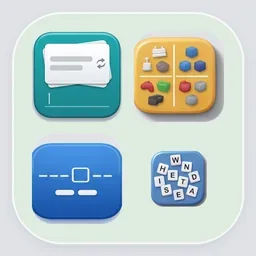
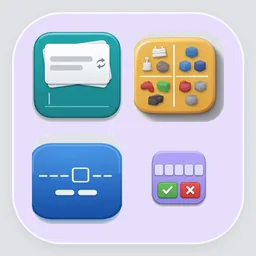
[Claude·MAC] Плитки-папки развилок «Apple Glass»: иконка у всех 95 игр каталога (задача 4c3ba7c9, п. 3)
Замер до: 9 игр каталога без иконки — 8 видимых карточек-развилок (counting, search, mnemonics,
languages, chess, sorting, puzzles, spatial) и скрытый «Фрактал» глубже. После: 0 из 95.

· Плитка-папка = три иконки первых игр развилки + четвёртая маленькая (замысел Дениса 13.09).
  Собраны КОДОМ из иконок самих игр, без генерации (сборщик — локально,
  memory-hearing-chat/icons/compose-group-tiles.py): «Языки» — игры «Слов» и «Слуха» поочерёдно
  (папка в папке на 40 px нечитаема), «Шахматы» — три игры, 4-й слот пуст. «Слух» и «Слова»
  пересобраны тем же правилом — один стиль у всех десяти; оттенок — от градиента карточки.
· 'sudoku-fractal-deep' — иконка «Фрактала» (то же поле глубже).

Проба hub_game_icons_test 9/9: новая — «у КАЖДОЙ игры GAMES есть иконка»; мутация «убрать
chess_group» краснеет. Линт: долг не вырос.

diff --git a/frontend/src/constants/gameIcons.ts b/frontend/src/constants/gameIcons.ts
@@ -85,11 +85,23 @@ export const GAME_ICONS: Record<string, any> = {
   water_sort: require('../../assets/images/game_icons/water_sort.webp'),
   wcst: require('../../assets/images/game_icons/wcst.webp'),
   word_pairs: require('../../assets/images/game_icons/word_pairs.webp'),
-  // Развилки-группы — папка «Apple Glass»: три иконки своих игр и четвёртая маленькая (собрано кодом из их иконок).
+  // Развилки-группы — папка «Apple Glass» (Денис 13.09.2026): три иконки первых игр развилки и четвёртая
+  // маленькая; у развилки из развилок («Языки») — их игры поочерёдно; у трёх игр («Шахматы») 4-й слот пуст.
+  // Собраны КОДОМ из иконок самих игр, не генерацией: ~/dev/psygames/memory-hearing-chat/icons/compose-group-tiles.py.
+  chess_group: require('../../assets/images/game_icons/chess_group.webp'),
+  counting_group: require('../../assets/images/game_icons/counting_group.webp'),
   hearing_group: require('../../assets/images/game_icons/hearing_group.webp'),
+  languages_group: require('../../assets/images/game_icons/languages_group.webp'),
+  mnemonics_group: require('../../assets/images/game_icons/mnemonics_group.webp'),
+  puzzles_group: require('../../assets/images/game_icons/puzzles_group.webp'),
+  search_group: require('../../assets/images/game_icons/search_group.webp'),
+  sorting_group: require('../../assets/images/game_icons/sorting_group.webp'),
+  spatial_group: require('../../assets/images/game_icons/spatial_group.webp'),
   words_group: require('../../assets/images/game_icons/words_group.webp'),
   'sudoku-samurai': require('../../assets/images/game_icons/sudoku_samurai.webp'),
   'sudoku-fractal': require('../../assets/images/game_icons/sudoku_fractal.webp'),
+  // Глубокий «Фрактал» — то же поле, вложенное глубже: иконка та же (экран скрыт из меню, видна в истории и итогах).
+  'sudoku-fractal-deep': require('../../assets/images/game_icons/sudoku_fractal.webp'),
 };
 
 /**

diff --git a/flutter/test/hub_game_icons_test.dart b/flutter/test/hub_game_icons_test.dart
@@ -82,6 +82,22 @@ void main() {
         reason: 'у головоломки своя иконка, не иконка всей развилки');
   });
 
+  test('🔴 у КАЖДОЙ игры каталога (GAMES) есть иконка — и у карточек-развилок тоже', () {
+    final reg = File('../frontend/src/constants/gameIcons.ts').readAsStringSync();
+    final games = File('../frontend/src/constants/games.ts').readAsStringSync();
+    final registry = {
+      for (final m in RegExp(r"^\s*'?([a-z0-9_-]+)'?:\s*require\(", multiLine: true).allMatches(reg)) m.group(1)!,
+    };
+    final ids = [
+      for (final m in RegExp(r"^\s*id:\s*'([^']+)'", multiLine: true)
+          .allMatches(games.substring(games.indexOf('export const GAMES'))))
+        m.group(1)!,
+    ];
+    expect(ids.length, greaterThan(90));
+    expect(ids.where((id) => !registry.contains(id)).toList(), isEmpty,
+        reason: 'игра без иконки: добавь в GAME_ICONS (развилка — плитка-папка из иконок её игр)');
+  });
+
   test('🔴 у КАЖДОЙ строки нативных развилок есть иконка игры', () {
     final hubs = (jsonDecode(File('assets/hubs.json').readAsStringSync()) as Map<String, dynamic>)['hubs'] as Map<String, dynamic>;
     final missing = <String>[];
